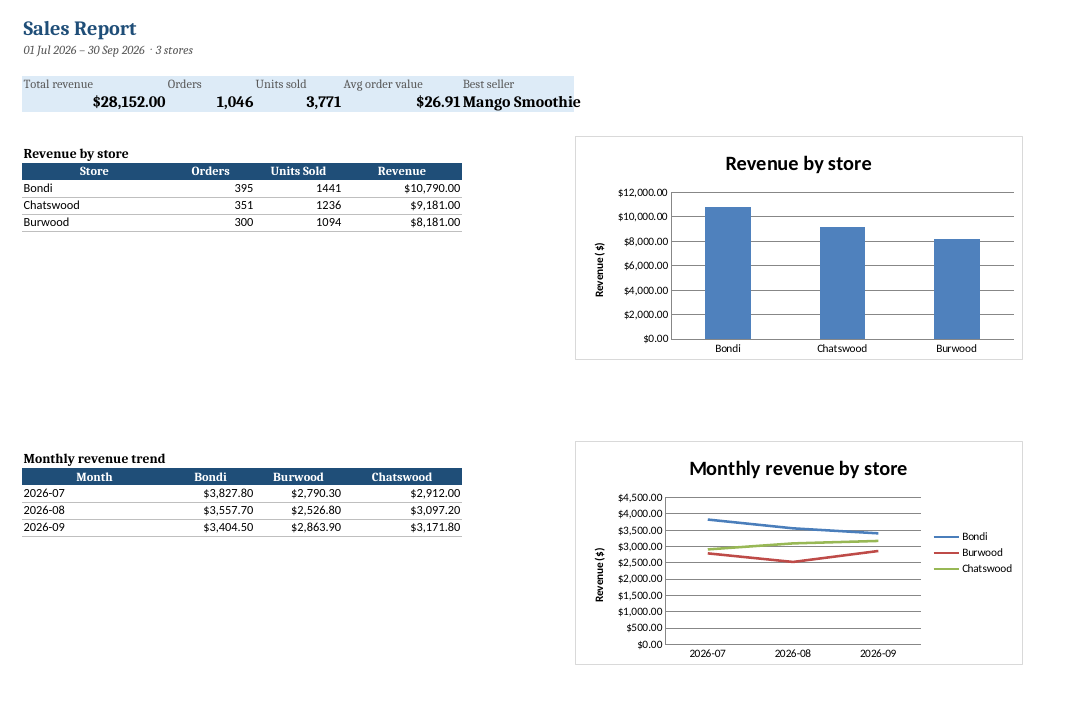
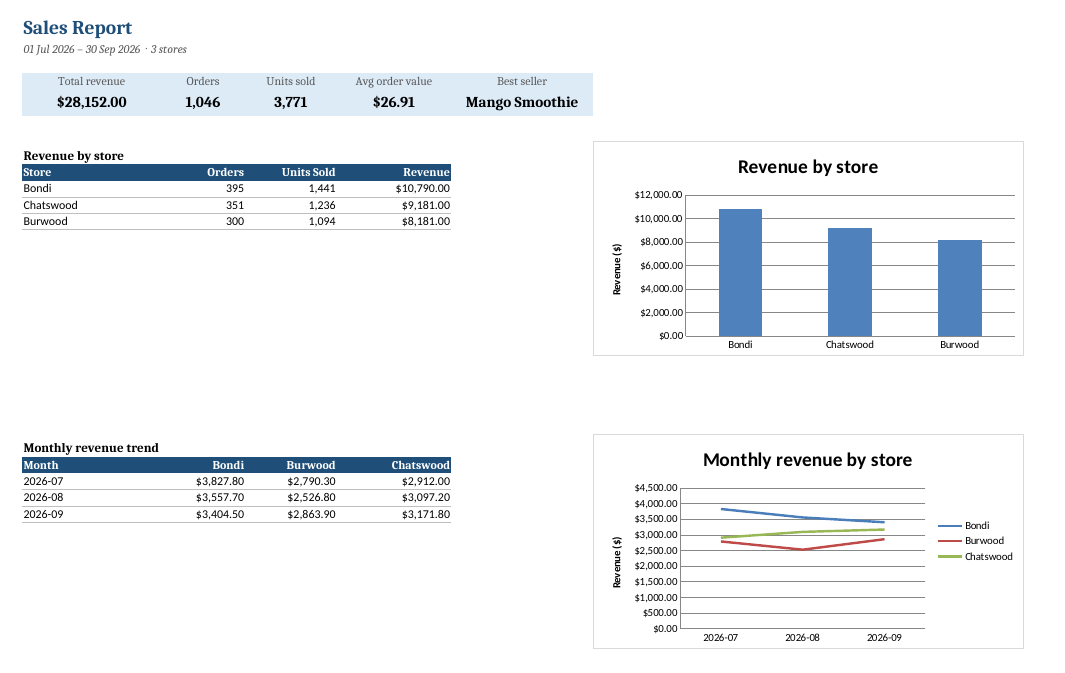
Fix report alignment and number formatting

diff --git a/sales_report/report.py b/sales_report/report.py
@@ -47,7 +47,8 @@ def write_table(ws: Worksheet, df: pd.DataFrame, start_row: int, start_col: int 
         cell = ws.cell(row=start_row, column=start_col + j,
                        value=str(col).replace("_", " ").title())
         cell.fill, cell.font = HEADER_FILL, HEADER_FONT
-        cell.alignment = Alignment(horizontal="center")
+        numeric = pd.api.types.is_numeric_dtype(df[col])
+        cell.alignment = Alignment(horizontal="right" if numeric else "left")
     for i, row in enumerate(df.itertuples(index=False), start=1):
         for j, value in enumerate(row):
             if isinstance(value, pd.Timestamp):
@@ -57,8 +58,11 @@ def write_table(ws: Worksheet, df: pd.DataFrame, start_row: int, start_col: int 
             col_name = df.columns[j]
             if col_name in money_cols or (money_cols == ("*",) and j > 0):
                 cell.number_format = MONEY
-            elif isinstance(value, pd.Timestamp) or hasattr(value, "strftime"):
+            elif hasattr(value, "strftime"):
                 cell.number_format = "yyyy-mm-dd"
+                cell.alignment = Alignment(horizontal="left")
+            elif isinstance(value, (int, float)) and not isinstance(value, bool):
+                cell.number_format = "#,##0" if float(value).is_integer() else "#,##0.00"
 
 
 def autofit(ws: Worksheet, min_width: int = 10, max_width: int = 40, skip_rows: int = 0) -> None:
@@ -89,13 +93,16 @@ def summary_sheet(wb: Workbook, df: pd.DataFrame, s: dict[str, pd.DataFrame]) ->
     ]
     for j, (label, value, fmt) in enumerate(kpis):
         col = 1 + j
-        ws.cell(row=4, column=col, value=label).font = Font(color="595959")
+        label_cell = ws.cell(row=4, column=col, value=label)
+        label_cell.font = Font(color="595959")
         cell = ws.cell(row=5, column=col, value=value)
         cell.font = Font(size=14, bold=True)
         if fmt:
             cell.number_format = fmt
-        for r in (4, 5):
-            ws.cell(row=r, column=col).fill = KPI_FILL
+        for c in (label_cell, cell):  # label sits directly above its value
+            c.fill = KPI_FILL
+            c.alignment = Alignment(horizontal="center", vertical="center")
+    ws.row_dimensions[5].height = 24
 
     ws["A8"] = "Revenue by store"
     ws["A8"].font = Font(size=12, bold=True)
@@ -122,7 +129,11 @@ def summary_sheet(wb: Workbook, df: pd.DataFrame, s: dict[str, pd.DataFrame]) ->
         series.smooth = False
     ws.add_chart(line, f"F{start - 1}")
     autofit(ws, min_width=14, skip_rows=2)
-    ws.column_dimensions["E"].width = max(ws.column_dimensions["E"].width, len(str(best["product"])) + 4)
+    # KPI values use a larger font, so give those columns extra room.
+    for j, (_, value, _) in enumerate(kpis):
+        letter = get_column_letter(1 + j)
+        needed = len(f"{value:,.2f}" if isinstance(value, float) else str(value)) * 1.4 + 4
+        ws.column_dimensions[letter].width = max(ws.column_dimensions[letter].width, needed)
     ws.page_setup.orientation = "landscape"
     ws.page_setup.fitToWidth, ws.page_setup.fitToHeight = 1, 1
     ws.sheet_properties.pageSetUpPr.fitToPage = True
